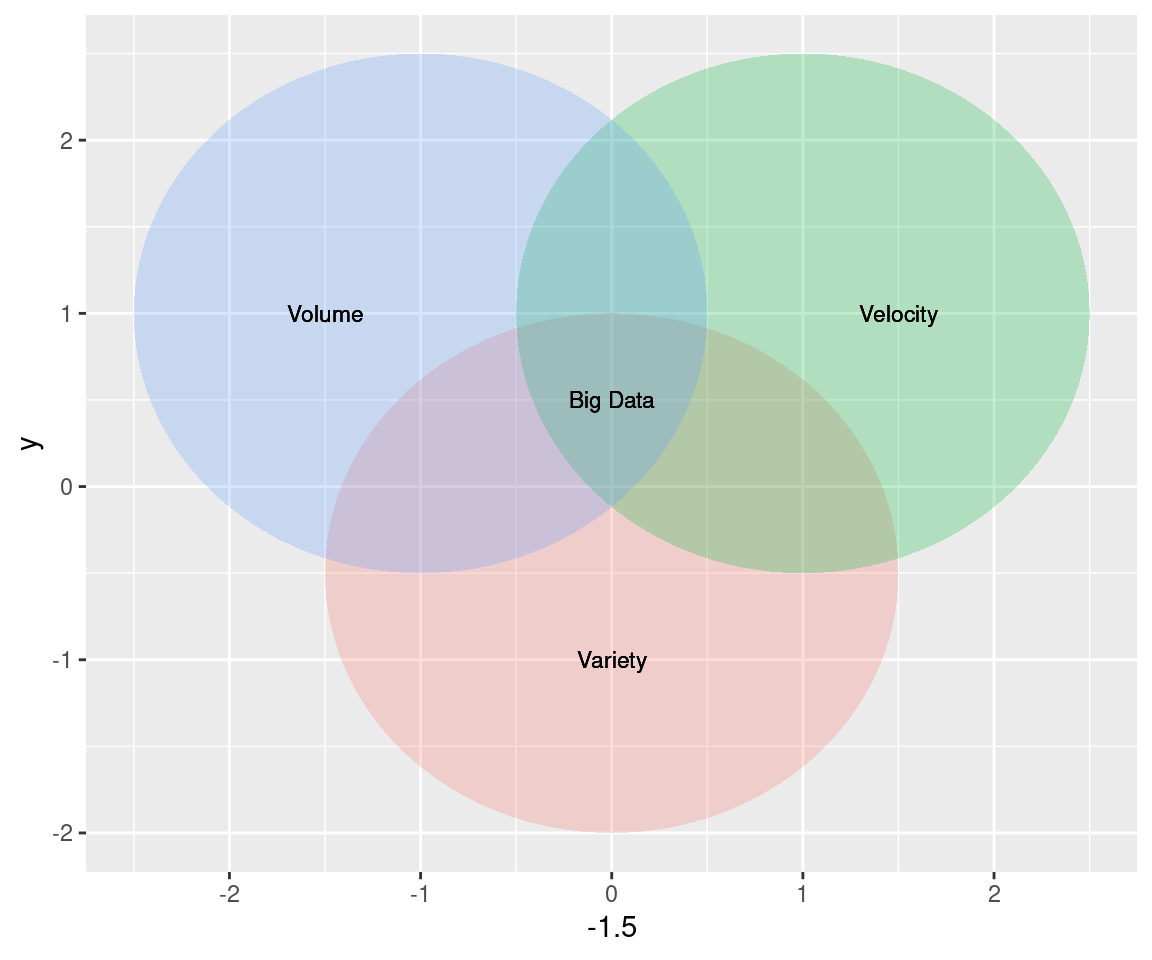
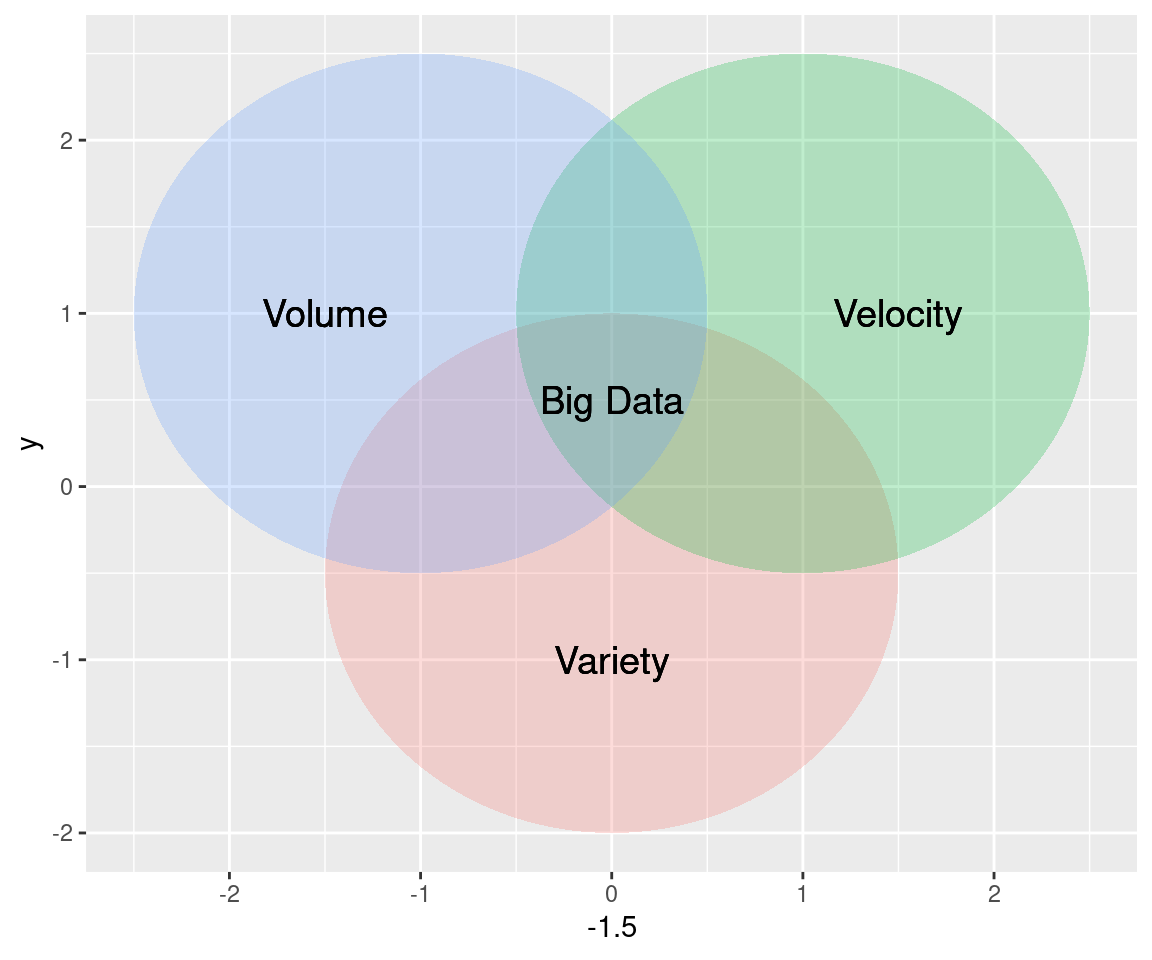
added venn diagram

diff --git a/data-science-toolbox.html b/data-science-toolbox.html
@@ -204,9 +204,9 @@ code span.wa { color: #8f5902; font-weight: bold; font-style: italic; } /* Warni
 <span id="cb3-8"><a href="data-science-toolbox.html#cb3-8"></a>    <span class="dt">size =</span> <span class="dv">1</span>,</span>
 <span id="cb3-9"><a href="data-science-toolbox.html#cb3-9"></a>    <span class="dt">color =</span> <span class="st">&quot;transparent&quot;</span>,</span>
 <span id="cb3-10"><a href="data-science-toolbox.html#cb3-10"></a>    <span class="dt">show.legend =</span> <span class="ot">FALSE</span></span>
-<span id="cb3-11"><a href="data-science-toolbox.html#cb3-11"></a>  ) <span class="op">+</span><span class="st"> </span><span class="kw">geom_text</span>(<span class="kw">aes</span>(<span class="dt">x =</span> <span class="fl">-1.5</span> , <span class="dt">y =</span> <span class="dv">1</span>, <span class="dt">label =</span> <span class="st">&quot;Volume&quot;</span>), <span class="dt">size =</span> <span class="dv">3</span>) <span class="op">+</span><span class="st"> </span><span class="kw">geom_text</span>(<span class="kw">aes</span>(<span class="dt">x =</span> <span class="fl">1.5</span> , <span class="dt">y =</span> <span class="dv">1</span>, <span class="dt">label =</span> <span class="st">&quot;Velocity&quot;</span>), <span class="dt">size =</span> <span class="dv">3</span>) <span class="op">+</span><span class="st"> </span></span>
-<span id="cb3-12"><a href="data-science-toolbox.html#cb3-12"></a><span class="st">  </span><span class="kw">geom_text</span>(<span class="kw">aes</span>(<span class="dt">x =</span> <span class="dv">0</span> , <span class="dt">y =</span> <span class="dv">-1</span>, <span class="dt">label =</span> <span class="st">&quot;Variety&quot;</span>), <span class="dt">size =</span> <span class="dv">3</span>)<span class="op">+</span></span>
-<span id="cb3-13"><a href="data-science-toolbox.html#cb3-13"></a><span class="st">  </span><span class="kw">geom_text</span>(<span class="kw">aes</span>(<span class="dt">x =</span> <span class="dv">0</span> , <span class="dt">y =</span> <span class="fl">.5</span>, <span class="dt">label =</span> <span class="st">&quot;Big Data&quot;</span>), <span class="dt">size =</span> <span class="dv">3</span>)</span></code></pre></div>
+<span id="cb3-11"><a href="data-science-toolbox.html#cb3-11"></a>  ) <span class="op">+</span><span class="st"> </span><span class="kw">geom_text</span>(<span class="kw">aes</span>(<span class="dt">x =</span> <span class="fl">-1.5</span> , <span class="dt">y =</span> <span class="dv">1</span>, <span class="dt">label =</span> <span class="st">&quot;Volume&quot;</span>), <span class="dt">size =</span> <span class="dv">5</span>) <span class="op">+</span><span class="st"> </span><span class="kw">geom_text</span>(<span class="kw">aes</span>(<span class="dt">x =</span> <span class="fl">1.5</span> , <span class="dt">y =</span> <span class="dv">1</span>, <span class="dt">label =</span> <span class="st">&quot;Velocity&quot;</span>), <span class="dt">size =</span> <span class="dv">5</span>) <span class="op">+</span><span class="st"> </span></span>
+<span id="cb3-12"><a href="data-science-toolbox.html#cb3-12"></a><span class="st">  </span><span class="kw">geom_text</span>(<span class="kw">aes</span>(<span class="dt">x =</span> <span class="dv">0</span> , <span class="dt">y =</span> <span class="dv">-1</span>, <span class="dt">label =</span> <span class="st">&quot;Variety&quot;</span>), <span class="dt">size =</span> <span class="dv">5</span>)<span class="op">+</span></span>
+<span id="cb3-13"><a href="data-science-toolbox.html#cb3-13"></a><span class="st">  </span><span class="kw">geom_text</span>(<span class="kw">aes</span>(<span class="dt">x =</span> <span class="dv">0</span> , <span class="dt">y =</span> <span class="fl">.5</span>, <span class="dt">label =</span> <span class="st">&quot;Big Data&quot;</span>), <span class="dt">size =</span> <span class="dv">5</span>)</span></code></pre></div>
 <p><img src="r_full_stack_files/figure-html/unnamed-chunk-4-1.png" width="576" /></p>
 
 </div>
